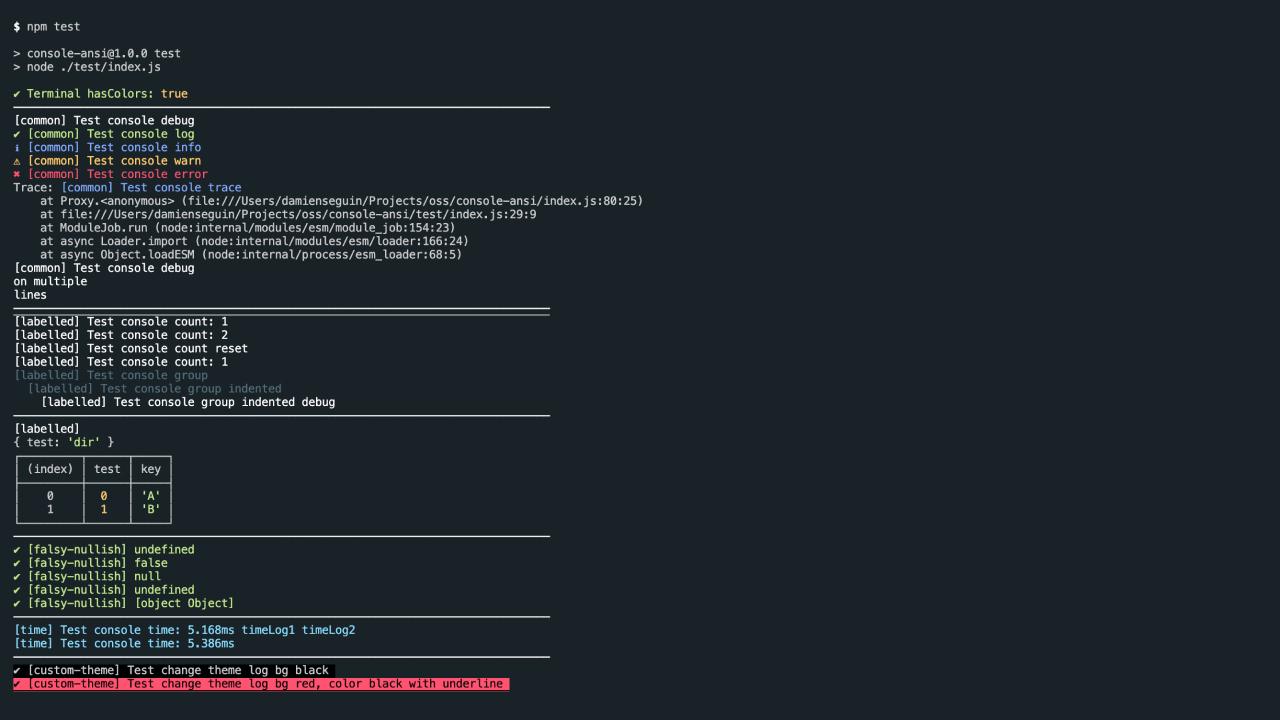
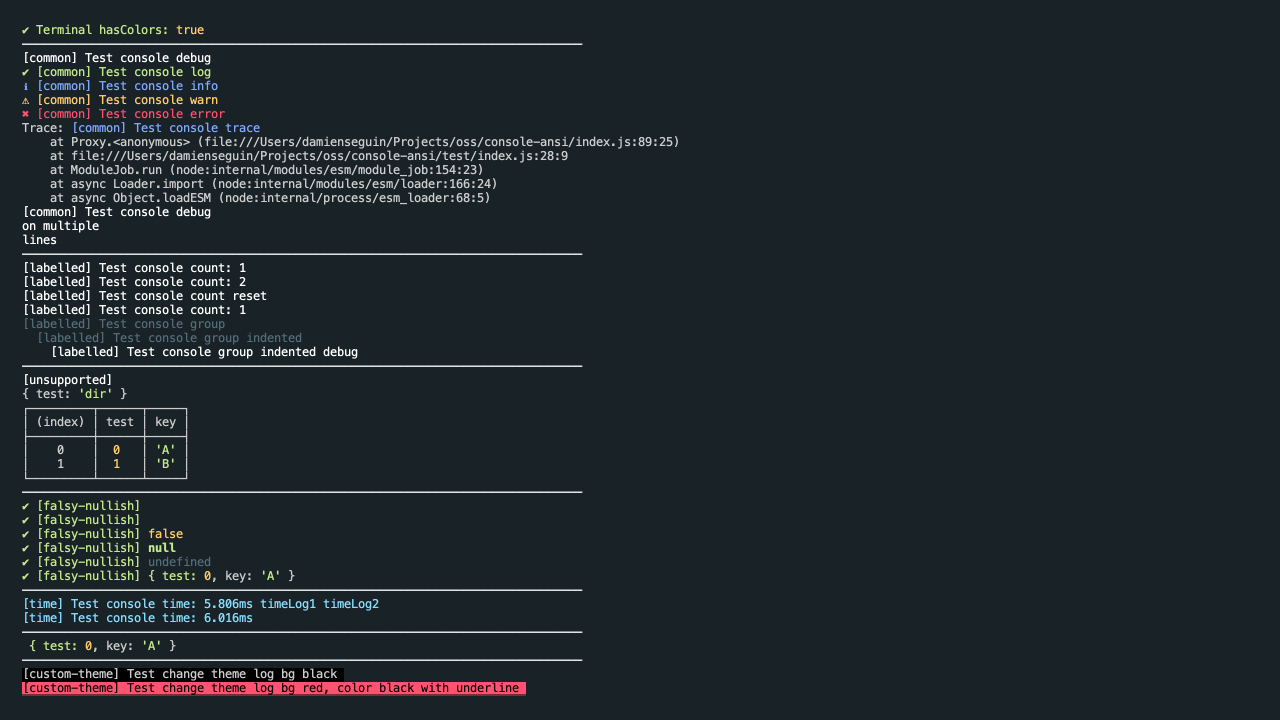
fix: only stringify labelled arguments

Changed region(s): [[0.0, 0.0306, 0.5312, 0.9778]]

diff --git a/test/index.js b/test/index.js
@@ -3,17 +3,15 @@ import styles from "../styles.js";
 
 const separator = () => {
   const prefix = console.prefix;
-  console.prefix = "";
-  console.debug(
-    "––––––––––––––––––––––––––––––––––––––––––––––––––––––––––––––––––––––––––––––––"
-  );
+  console.prefix =
+    "––––––––––––––––––––––––––––––––––––––––––––––––––––––––––––––––––––––––––––––––";
+  console.debug();
   console.prefix = prefix;
 };
 
 if (typeof process !== "undefined") {
   console.log(`Terminal hasColors:`, process.stdout.hasColors?.());
 }
-// console.symbol = {};
 
 // Start time...
 console.prefix = "[time]";
@@ -47,8 +45,8 @@ console.groupEnd("Test console group");
 
 // Use defaults
 separator();
-console.prefix = "";
-console.debug("[unsupported]");
+console.prefix = "[unsupported]";
+console.debug("");
 console.dir({ test: "dir" }, { colors: true });
 console.table([
   { test: 0, key: "A" },
@@ -59,6 +57,7 @@ console.table([
 separator();
 console.prefix = "[falsy-nullish]";
 console.log();
+console.log("");
 console.log(false);
 console.log(null);
 console.log(undefined);
@@ -69,6 +68,12 @@ separator();
 console.prefix = "[time]"; // Needs to be the same as time()
 console.timeLog("Test console time", "timeLog1", "timeLog2");
 console.timeEnd("Test console time");
+
+// Empty prefix and symbol
+separator();
+console.prefix = "";
+console.symbol = {};
+console.log({ test: 0, key: "A" }); // will add a space
 
 // Change theme
 separator();

diff --git a/index.js b/index.js
@@ -14,6 +14,13 @@ import styles from "./styles.js";
 const escape = (n) => `\u001B[${n}m`;
 
 /**
+ * Console methods that require special formatting
+ *
+ * @private
+ */
+const labelled = ["time", "timeLog", "timeEnd", "count", "countReset"];
+
+/**
  * Export a Proxy object to automatically style the console with ANSI strings.
  *
  * @alias module:consoleAnsi
@@ -41,7 +48,7 @@ const proxiedConsole = new Proxy(
       timeLog: styles.cyan,
       timeEnd: styles.cyan,
 
-      // Not supported
+      // Not supported, they already have some coloring
       // dir: // use second argument { colors: true }
       // table:
     },
@@ -60,8 +67,9 @@ const proxiedConsole = new Proxy(
         ? (...args) => {
             const symbolProp = obj.symbol[prop];
 
-            let themeProp = obj.theme[prop];
-            if (!Array.isArray(themeProp[0])) themeProp = [themeProp];
+            let themeProp = !Array.isArray(obj.theme[prop][0])
+              ? [obj.theme[prop]]
+              : obj.theme[prop];
 
             const attributes = themeProp.reduce(
               (str, style) => [
@@ -71,11 +79,13 @@ const proxiedConsole = new Proxy(
               ["", ""]
             );
 
+            const isLabelled = labelled.includes(prop);
+
             return console[prop](
-              `${attributes[0]}${symbolProp ? `${symbolProp} ` : ""}${
-                obj.prefix ? `${obj.prefix} ` : ""
-              }${args[0]}`,
-              ...args.slice(1),
+              `${attributes[0]}${[symbolProp, obj.prefix, isLabelled && args[0]]
+                .filter(Boolean)
+                .join(" ")}`,
+              ...args.slice(isLabelled ? 1 : 0),
               attributes[1]
             );
           }
